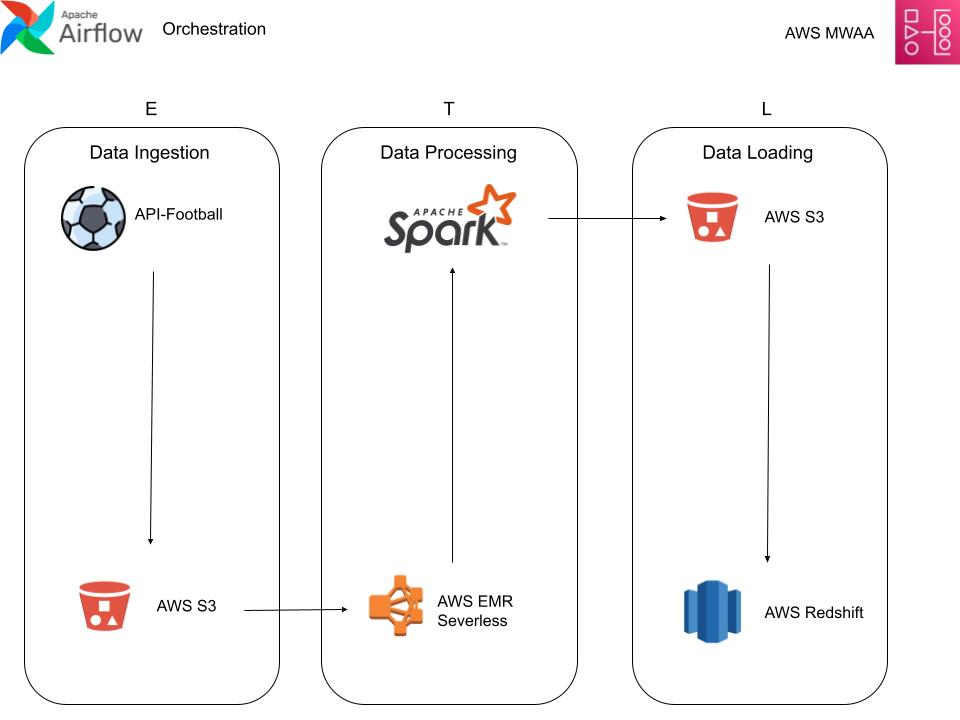
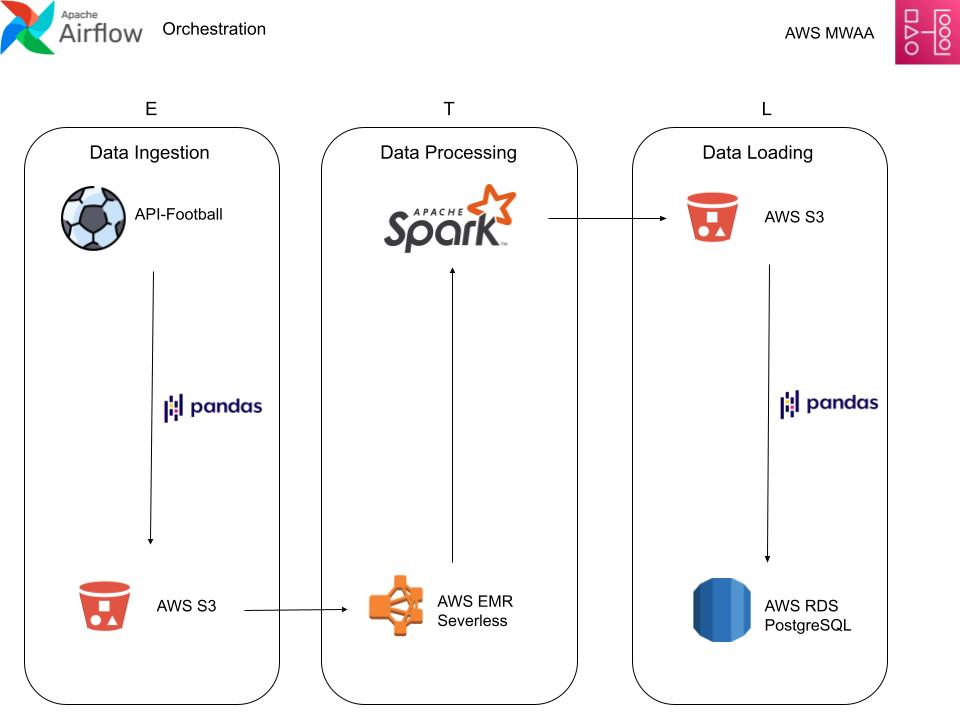
Documentation

Changed region(s): [[0.6875, 0.7944, 0.9062, 0.9167], [0.8125, 0.55, 0.9375, 0.5806], [0.1562, 0.55, 0.2812, 0.5806]]

diff --git a/README.md b/README.md
@@ -4,6 +4,8 @@
 
 This project implements an ETL pipeline to extract, transform, and load football player statistics for the current season. The data pipeline leverages various AWS services, Apache Airflow for orchestration, and Apache Spark for data transformations. The processed data is stored in an AWS RDS PostgreSQL database for further analysis.
 
+![Pipeline Architecture](pipeline_architecture.jpg)
+
 ---
 
 ## Architecture
@@ -12,13 +14,13 @@ This project implements an ETL pipeline to extract, transform, and load football
 
 1. **Extract**:
    - Football player statistics are fetched from a football API using **pandas**.
-   - Extracted data is stored as raw JSON in an Amazon S3 bucket.
+   - Extracted data is stored as parquet files in an Amazon S3 input folder.
 
 2. **Transform**:
-   - An **Amazon EMR Serverless** Spark application processes and transforms the raw JSON data into a cleaned, enriched format.
+   - An **Amazon EMR Serverless** Spark application processes and transforms the raw parquet data into a cleaned, enriched format.
 
 3. **Load**:
-   - The transformed data is uploaded back to the S3 bucket.
+   - The transformed data is uploaded back to the S3 bucket in an output folder and logs uploaded to logs folder.
    - Data is then ingested into an **AWS RDS PostgreSQL** database for querying and analysis.
 
 4. **Orchestration**:
@@ -51,11 +53,11 @@ This project implements an ETL pipeline to extract, transform, and load football
 ## Prerequisites
 
 1. **Python Environment**:
-   - Install Python 3.9 or later.
-   - Required libraries:
+   - Install Python 3.10 or later.
+   - Install required libraries:
 
      ```bash
-     pip install pandas boto3 apache-airflow psycopg2
+     pip install -r requirements.txt
      ```
 
 2. **AWS Account**:
@@ -81,5 +83,3 @@ This project implements an ETL pipeline to extract, transform, and load football
    export RDS_USER=your-database-username
    export RDS_PASSWORD=your-database-password
    export RDS_DATABASE=your-database-name
-
-![Pipeline Architecture](pipeline_architecture.jpg)
